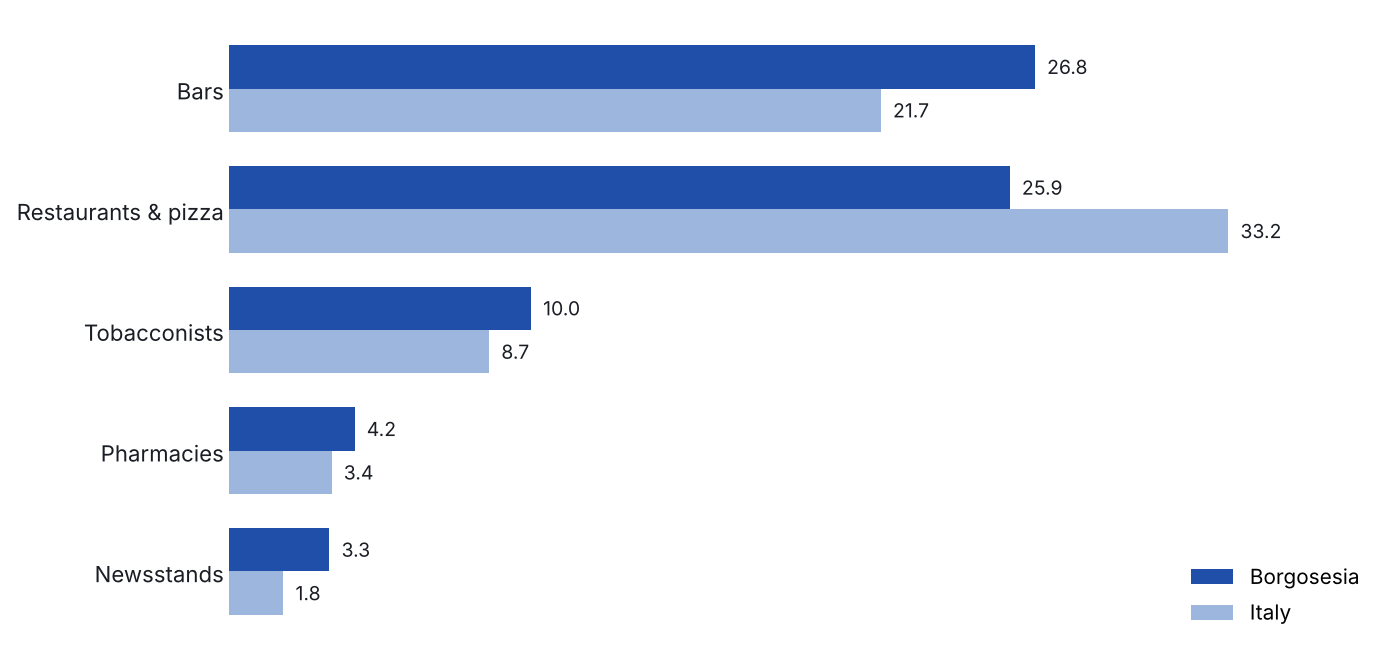
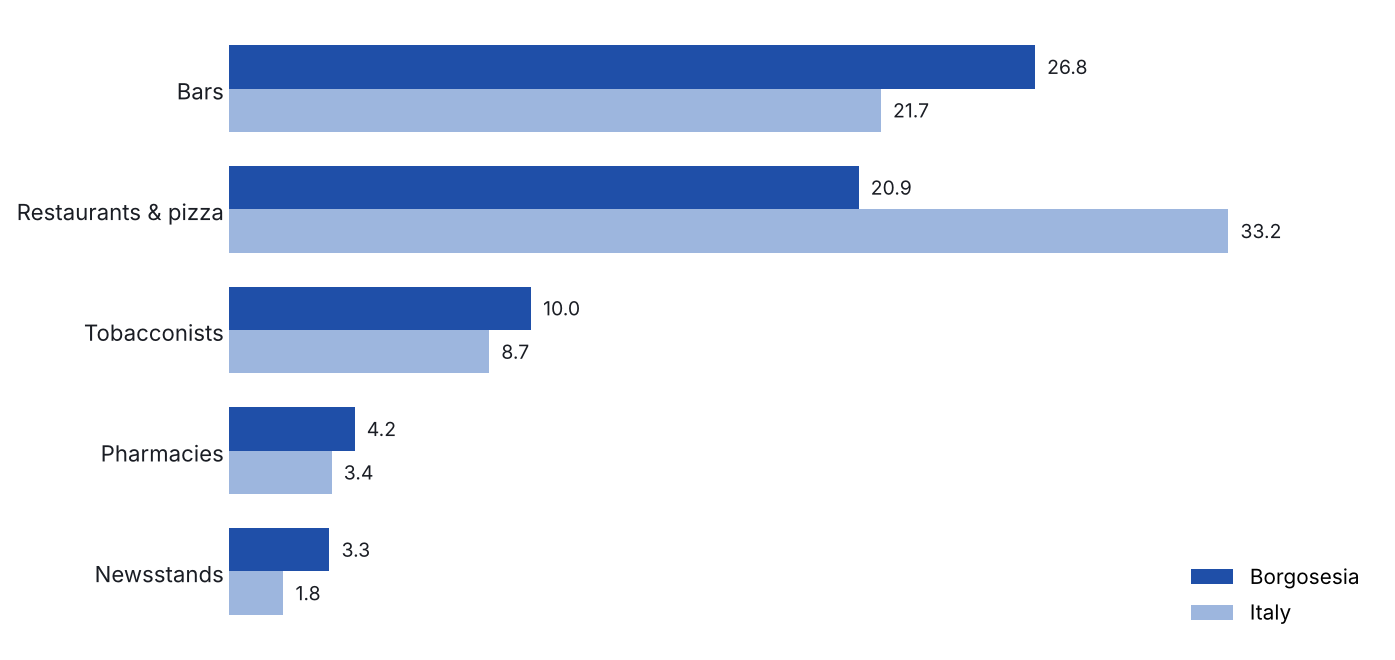
Update Borgosesia eating-place count after removing double counts
Restaurants and pizza places re-checked: 25 outlets instead of 31, so
37% fewer per resident than the Italian average (was 22%).

Claude-Session: https://claude.ai/code/session_01A1wc3RRBthWsoZ9LxeTV7i

Changed region(s): [[0.6165, 0.2424, 0.7706, 0.3333]]

diff --git a/it/case-study/analisi-territoriale-borgosesia/index.html b/it/case-study/analisi-territoriale-borgosesia/index.html
@@ -96,7 +96,7 @@
           <figcaption>Popolazione residente, 1981–2025 (ISTAT)</figcaption>
         </figure>
         <figure class="cs-figure">
-          <img src="../../../assets/img/borgosesia-density-it.png" alt="Esercizi ogni 10.000 abitanti, Borgosesia e Italia: bar 26,8 contro 21,7, ristoranti e pizzerie 25,9 contro 33,2, tabaccherie 10,0 contro 8,7, farmacie 4,2 contro 3,4, edicole 3,3 contro 1,8" loading="lazy" width="1395" height="660">
+          <img src="../../../assets/img/borgosesia-density-it.png" alt="Esercizi ogni 10.000 abitanti, Borgosesia e Italia: bar 26,8 contro 21,7, ristoranti e pizzerie 20,9 contro 33,2, tabaccherie 10,0 contro 8,7, farmacie 4,2 contro 3,4, edicole 3,3 contro 1,8" loading="lazy" width="1395" height="660">
           <figcaption>Esercizi ogni 10.000 abitanti: Borgosesia e Italia. Ristoranti e pizzerie sono uniti, come nel dato nazionale InfoCamere</figcaption>
         </figure>
     </section>
@@ -107,7 +107,7 @@
         <li>La stima della popolazione era vicina: 12.500 stimati contro 12.250 registrati a fine 2020. Oggi i residenti sono 11.951, un quarto in meno rispetto al 1981</li>
         <li>Il 31,2% dei residenti ha 65 anni o più (2023), contro il 25,1% dell&#x27;Italia (2026)</li>
         <li>Le definizioni cambiano la risposta: per l&#x27;ISTAT l&#x27;84% dei residenti vive nel centro abitato, non il 64% stimato, perché conta come centro anche i rioni attaccati al paese</li>
-        <li>Il 24% di bar in più, il 22% di farmacie in più e l&#x27;84% di edicole in più per abitante rispetto alla media italiana, ma il 22% di ristoranti e pizzerie in meno</li>
+        <li>Il 24% di bar in più, il 22% di farmacie in più e l&#x27;84% di edicole in più per abitante rispetto alla media italiana, ma il 37% di ristoranti e pizzerie in meno</li>
         <li>Prossimo passo: geolocalizzare ogni esercizio e assegnarlo alle sezioni di censimento ISTAT, per avere i rapporti reali tra centro e frazioni</li>
       </ul>
     </section>
@@ -122,7 +122,7 @@
       </div>
     </section>
 
-    <p class="cs-note">Questo è un progetto dimostrativo su dati pubblici (ISTAT, InfoCamere/FIPE, Federfarma, SNAG, FIT). Il numero di esercizi viene da un mio conteggio sul campo di dicembre 2020, con le farmacie ricontrollate a novembre 2026. I dati nazionali contano le imprese registrate e non i punti vendita, quindi il confronto è indicativo.</p>
+    <p class="cs-note">Questo è un progetto dimostrativo su dati pubblici (ISTAT, InfoCamere/FIPE, Federfarma, SNAG, FIT). Il numero di esercizi viene da un mio conteggio sul campo di dicembre 2020, con farmacie, ristoranti e pizzerie ricontrollati a novembre 2026 (i ristoranti-pizzeria contati una sola volta). I dati nazionali contano le imprese registrate e non i punti vendita, quindi il confronto è indicativo.</p>
 
   </div>
 </main>

diff --git a/en/case-studies/territorial-analytics-borgosesia/index.html b/en/case-studies/territorial-analytics-borgosesia/index.html
@@ -96,7 +96,7 @@
           <figcaption>Resident population, 1981–2025 (ISTAT)</figcaption>
         </figure>
         <figure class="cs-figure">
-          <img src="../../../assets/img/borgosesia-density-en.png" alt="Outlets per 10,000 residents, Borgosesia vs Italy: bars 26.8 vs 21.7, restaurants and pizza 25.9 vs 33.2, tobacconists 10.0 vs 8.7, pharmacies 4.2 vs 3.4, newsstands 3.3 vs 1.8" loading="lazy" width="1395" height="660">
+          <img src="../../../assets/img/borgosesia-density-en.png" alt="Outlets per 10,000 residents, Borgosesia vs Italy: bars 26.8 vs 21.7, restaurants and pizza 20.9 vs 33.2, tobacconists 10.0 vs 8.7, pharmacies 4.2 vs 3.4, newsstands 3.3 vs 1.8" loading="lazy" width="1395" height="660">
           <figcaption>Outlets per 10,000 residents: Borgosesia vs Italy. Restaurants and pizza places are combined, as in the national InfoCamere figure</figcaption>
         </figure>
     </section>
@@ -107,7 +107,7 @@
         <li>The population estimate was close: 12,500 guessed against 12,250 recorded at the end of 2020. Today it is 11,951, a quarter fewer than in 1981</li>
         <li>31.2% of residents are 65 or older (2023), against 25.1% in Italy (2026)</li>
         <li>Definitions changed the answer: ISTAT places 84% of residents in the built-up town centre (centro abitato), not the 64% estimated, because it counts the neighbourhoods joined to the town as part of it</li>
-        <li>24% more bars, 22% more pharmacies and 84% more newsstands per resident than the Italian average, but 22% fewer restaurants and pizzerias</li>
+        <li>24% more bars, 22% more pharmacies and 84% more newsstands per resident than the Italian average, but 37% fewer restaurants and pizzerias</li>
         <li>Next step: geocode every outlet and assign it to ISTAT census sections for true centre and hamlet ratios</li>
       </ul>
     </section>
@@ -122,7 +122,7 @@
       </div>
     </section>
 
-    <p class="cs-note">This is a demo project on public data (ISTAT, InfoCamere/FIPE, Federfarma, SNAG, FIT). Outlet counts come from my own field count of December 2020, with pharmacies re-checked in November 2026. National figures count registered businesses rather than shop fronts, so the comparison is indicative.</p>
+    <p class="cs-note">This is a demo project on public data (ISTAT, InfoCamere/FIPE, Federfarma, SNAG, FIT). Outlet counts come from my own field count of December 2020, with pharmacies, restaurants and pizza places re-checked in November 2026 (restaurant-pizzerias counted once). National figures count registered businesses rather than shop fronts, so the comparison is indicative.</p>
 
   </div>
 </main>
